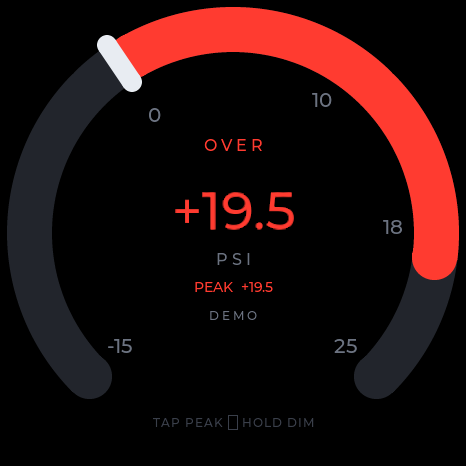
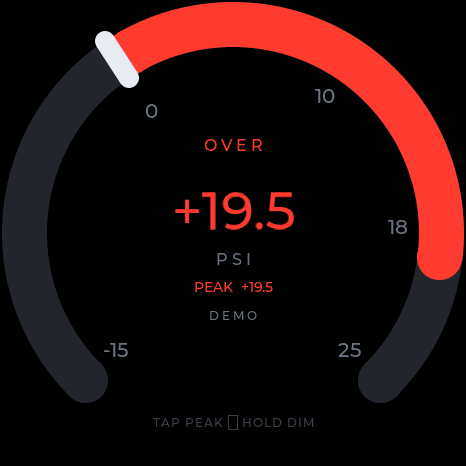
Trial: 2px arc inset from panel edge

diff --git a/main/boost_gauge.c b/main/boost_gauge.c
@@ -58,16 +58,16 @@
 #define ARC_RANGE     270
 
 #define DISP_SIZE     466
-/* Full-bleed face; arc inset 5px from panel edge (diameter -10). */
-#define ARC_DIAMETER  452
+/* Full-bleed face; arc inset 2px from panel edge (diameter -4). */
+#define ARC_DIAMETER  462
 #define ARC_WIDTH     45   /* ~1.5× the previous 30px stroke */
 #define ZERO_LINE_W   20
 /* Zero-side hide gap — boost tuned via sim pixels (3.8 clean; 4.0 margin). */
 #define ZERO_GAP_VAC_DEG   3.6f
 #define ZERO_GAP_BOOST_DEG 4.00f
 #define TICK_FONT     (&lv_font_montserrat_20)
-/* Tick labels sit just inside the thicker inset arc. */
-#define TICK_RADIUS   160.0f
+/* Tick labels sit just inside the thicker arc. */
+#define TICK_RADIUS   165.0f
 #define HOLD_DIM_MS   2000
 /* Soft well under the face — full panel, no black outer ring. */
 #define WELL_SIZE     DISP_SIZE
